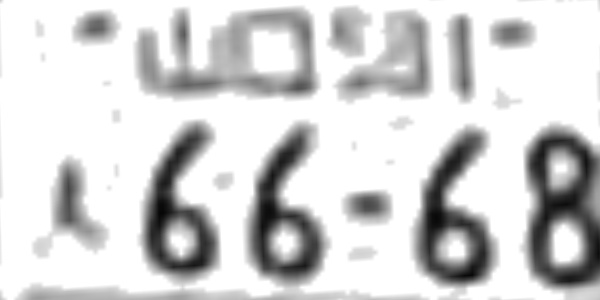
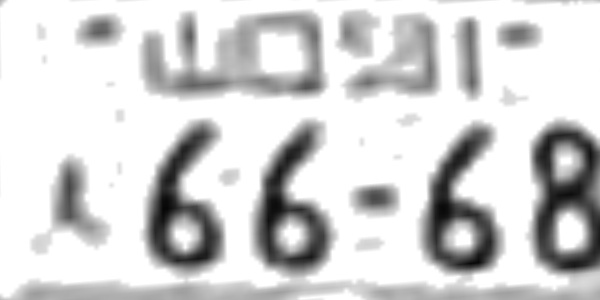
w

diff --git a/rectangle_detection.py b/rectangle_detection.py
@@ -1,16 +1,70 @@
 import cv2
+import numpy as np
 
-def normalize_image_orientation(image_path, output_path):
-    src = image_path
-    img = cv2.imread(src)
-    gray = cv2.cvtColor(img, cv2.COLOR_BGR2GRAY)
+class PlateOcr:
+    def __init__(self, src: str) -> None:
+        self.src = src
+        self.image = cv2.imread(src)
+        # グレースケール
+        self.gray = cv2.cvtColor(self.image, cv2.COLOR_BGR2GRAY)
+        self.areas = []
+    
+    def prepare_image(self):
+        """画像の前処理"""
+        pass
+
+    def fint_rectangle(self):
+        """輪郭検出"""
+        # 2値化
+        ret, img_binary  = cv2.threshold(self.gray, 150, 255, cv2.THRESH_BINARY)
+        
+        # 輪郭検出
+        contours, hierarchy = cv2.findContours(img_binary, cv2.RETR_EXTERNAL, cv2.CHAIN_APPROX_NONE)
+
+        # 面積の大きいもののみ選別
+        self.areas = []
+        for cnt in contours:
+            area = cv2.contourArea(cnt)
+            if area > 1000:
+                epsilon = 0.1*cv2.arcLength(cnt,True)
+                approx = cv2.approxPolyDP(cnt,epsilon,True)
+                if len(approx) == 4:
+                    self.areas.append(approx)
+
+        ##### 確認用
+        print("len(areas):", len(self.areas))
+
+        # 輪郭に色をつけたもの
+        image_contour = cv2.drawContours(self.image, contours, -1, (0, 255, 0), 5)
+        # ↑を保存
+        output_path = "wips" + self.src[10:]
+        self.output_image(image_contour, output_path)
+        pass
+
+    def transform_image(self):
+        if len(self.areas) > 0:
+            cv2.drawContours(img, self.areas, -1, (0,255,0), 3)
+            # display_cv_image(img)
+            # cv2.imwrite(wip_path, img)
 
 
-def prepare_image(image):
-    pass
+            img = cv2.imread(self.src)
+            # img = cv2.resize(img, (img.shape[1] * 2, img.shape[0] * 2))
+            img = np.where(img > 220, 255, img)
 
-def fint_rectangle(image):
-    pass
+            dst = []
 
-def transform_image():
-    pass
+            pts1 = np.float32(self.areas[0])
+            pts2 = np.float32([[0,0],[0,300],[600,300],[600,0]])
+            # pts2 = np.float32([[600,300],[600,0],[0,0],[0,300]])
+
+            M = cv2.getPerspectiveTransform(pts1,pts2)
+            dst = cv2.warpPerspective(img,M,(600,300))
+            cv2.imwrite(output_path, dst)
+        else:
+            cv2.drawContours(img, contours, -1, (0, 0, 255), 2)
+            cv2.imwrite(output_path, img)
+        pass
+
+    def output_image(self, image, output_path: str):
+        cv2.imwrite(output_path, image)

diff --git a/transform.py b/transform.py
@@ -1,26 +1,23 @@
 import cv2
 import numpy as np
 
-from IPython.display import display, Image
-
-# 使えんっぽい
-# def display_cv_image(image, format='.png'):
-#     decoded_bytes = cv2.imencode(format, image)[1].tobytes()
-#     display(Image(data=decoded_bytes))
 
 def normalize_image_orientation(input_path, wip_path, output_path):
     src = input_path
     img = cv2.imread(src)
-    # img = cv2.resize(img, (img.shape[1] * 2, img.shape[0] * 2))
-    # display_cv_image(img)
 
     # 画像の前処理
     gray = cv2.cvtColor(img, cv2.COLOR_BGR2GRAY)
-    ret, th1 = cv2.threshold(gray, 190, 255, cv2.THRESH_BINARY)
-    # display_cv_image(th1)
+    # ネガポジ反転
+    if gray.mean() < 120:
+        gray = 255 - gray
+    # 平滑化
+    gray = cv2.equalizeHist(gray)
+    ret, th1 = cv2.threshold(gray, 150, 255, cv2.THRESH_BINARY)
+    cv2.imwrite(wip_path, th1)
 
     # 輪郭抽出
-    contours, hierarchy = cv2.findContours(th1, cv2.RETR_TREE, cv2.CHAIN_APPROX_SIMPLE)
+    contours, hierarchy = cv2.findContours(th1, cv2.RETR_EXTERNAL, cv2.CHAIN_APPROX_SIMPLE)
 
     # 面積の大きいもののみ選別
     areas = []
@@ -42,28 +39,24 @@ def normalize_image_orientation(input_path, wip_path, output_path):
 
     if len(areas) > 0:
         cv2.drawContours(img,areas,-1,(0,255,0),3)
-        # display_cv_image(img)
-        cv2.imwrite(wip_path, img)
 
+        # 検出したもの
+        # cv2.imwrite(wip_path, img)
 
         img = cv2.imread(src)
-        # img = cv2.resize(img, (img.shape[1] * 2, img.shape[0] * 2))
         img = np.where(img > 220, 255, img)
 
         dst = []
 
         pts1 = np.float32(areas[0])
         pts2 = np.float32([[0,0],[0,300],[600,300],[600,0]])
-        # pts2 = np.float32([[600,300],[600,0],[0,0],[0,300]])
-
 
         M = cv2.getPerspectiveTransform(pts1,pts2)
         dst = cv2.warpPerspective(img,M,(600,300))
         cv2.imwrite(output_path, dst)
     else:
+        cv2.drawContours(img, contours, -1, (0, 0, 255), 2)
         cv2.imwrite(output_path, img)
-
-    # display_cv_image(dst)
 
 
 for i in range(24):

diff --git a/test.py b/test.py
@@ -1,0 +1,56 @@
+import cv2
+import os
+import numpy as np
+
+def resize_image():
+    pass
+
+def main(folder_path):
+    image_files = [f for f in os.listdir(folder_path) if f.lower().endswith(('.png', '.jpg', '.jpeg', '.gif', '.bmp'))]
+
+    if not image_files:
+        print("指定されたフォルダに画像が見つかりませんでした。")
+        return
+    
+    # ファイル名でソート
+    image_files.sort()
+
+    for image_file in image_files:
+        image_path = os.path.join(folder_path, image_file)
+        output_path = os.path.join(folder_path, "output/" ,image_file)
+        img = cv2.imread(image_path)
+
+        # 縦横比で変換比率決定
+        dst = []
+        diff = 0
+        height, width, _ = img.shape[:3]
+        aspect_ratio = width / height
+        if aspect_ratio < 1.6:
+            diff = 30
+        elif aspect_ratio < 1.8:
+            diff = 20
+        elif aspect_ratio < 1.9:
+            diff = 10
+        else:
+            diff = 0
+
+        # 変換の隅決め
+        pts1 = np.float32([[0,0],[0,height-diff],[width,height],[width,diff]])
+        pts2 = np.float32([[0,0],[0,height],[250,height],[250,0]])
+
+        # 投影変換
+        M = cv2.getPerspectiveTransform(pts1,pts2)
+        dst = cv2.warpPerspective(img,M,(250,height))
+        # グレースケール
+        dst = cv2.cvtColor(dst, cv2.COLOR_BGR2GRAY)
+        dst = dst[30:120, 50:240]
+        # ネガポジ反転
+        # if dst.mean() < 150:
+        #     dst = 255 - dst
+        # ret, dst = cv2.threshold(dst, 100, 255, cv2.THRESH_TOZERO)
+        cv2.imwrite(output_path, dst)
+
+
+if __name__ == "__main__":
+    folder_path = "/home/god/mp/univ/plate_ocr/yellows"
+    main(folder_path)

diff --git a/width_height_hiritsu.py b/width_height_hiritsu.py
@@ -1,0 +1,34 @@
+from PIL import Image
+import os
+
+def calculate_aspect_ratio(image_path):
+    try:
+        with Image.open(image_path) as img:
+            width, height = img.size
+            aspect_ratio = width / height
+            return width, height, aspect_ratio
+    except Exception as e:
+        print(f"エラー: {e}")
+        return None
+
+def main(folder_path):
+    image_files = [f for f in os.listdir(folder_path) if f.lower().endswith(('.png', '.jpg', '.jpeg', '.gif', '.bmp'))]
+
+    if not image_files:
+        print("指定されたフォルダに画像が見つかりませんでした。")
+        return
+
+    # ファイル名でソート
+    image_files.sort()
+
+    for image_file in image_files:
+        image_path = os.path.join(folder_path, image_file)
+        image_info = calculate_aspect_ratio(image_path)
+
+        if image_info is not None:
+            width, height, aspect_ratio = image_info
+            print(f"{image_file}: 幅 {width}, 高さ {height}, 縦横比 {aspect_ratio:.2f}")
+
+if __name__ == "__main__":
+    folder_path = "/home/god/mp/univ/plate_ocr/yellows"
+    main(folder_path)

diff --git a/ocr.py b/ocr.py
@@ -1,7 +1,28 @@
 import easyocr
 
 
-reader = easyocr.Reader(["ja", "en"])
-result = reader.readtext("result.jpg")
+reader = easyocr.Reader(["en"])
+for i in range(1, 25):
+    result = reader.readtext(f"/home/god/mp/univ/plate_ocr/yellows/output/number{str(i).zfill(3)}.jpg")
+    if result:
+        number = result[-1][1:]
+    else:
+        number = "-----None"
+    print(f"plate{str(i)}:\n{number}")
 
-print(result)
+[
+    (
+        [
+            [54, 0], [206, 0], [206, 46], [54, 46]
+        ], 
+        'Lo ', 
+        0.08661511767775976
+    ), 
+    (
+        [
+            [92, 42], [238, 42], [238, 118], [92, 118]
+        ], 
+        '4 88', 
+        0.9120393395423889
+    )
+]
